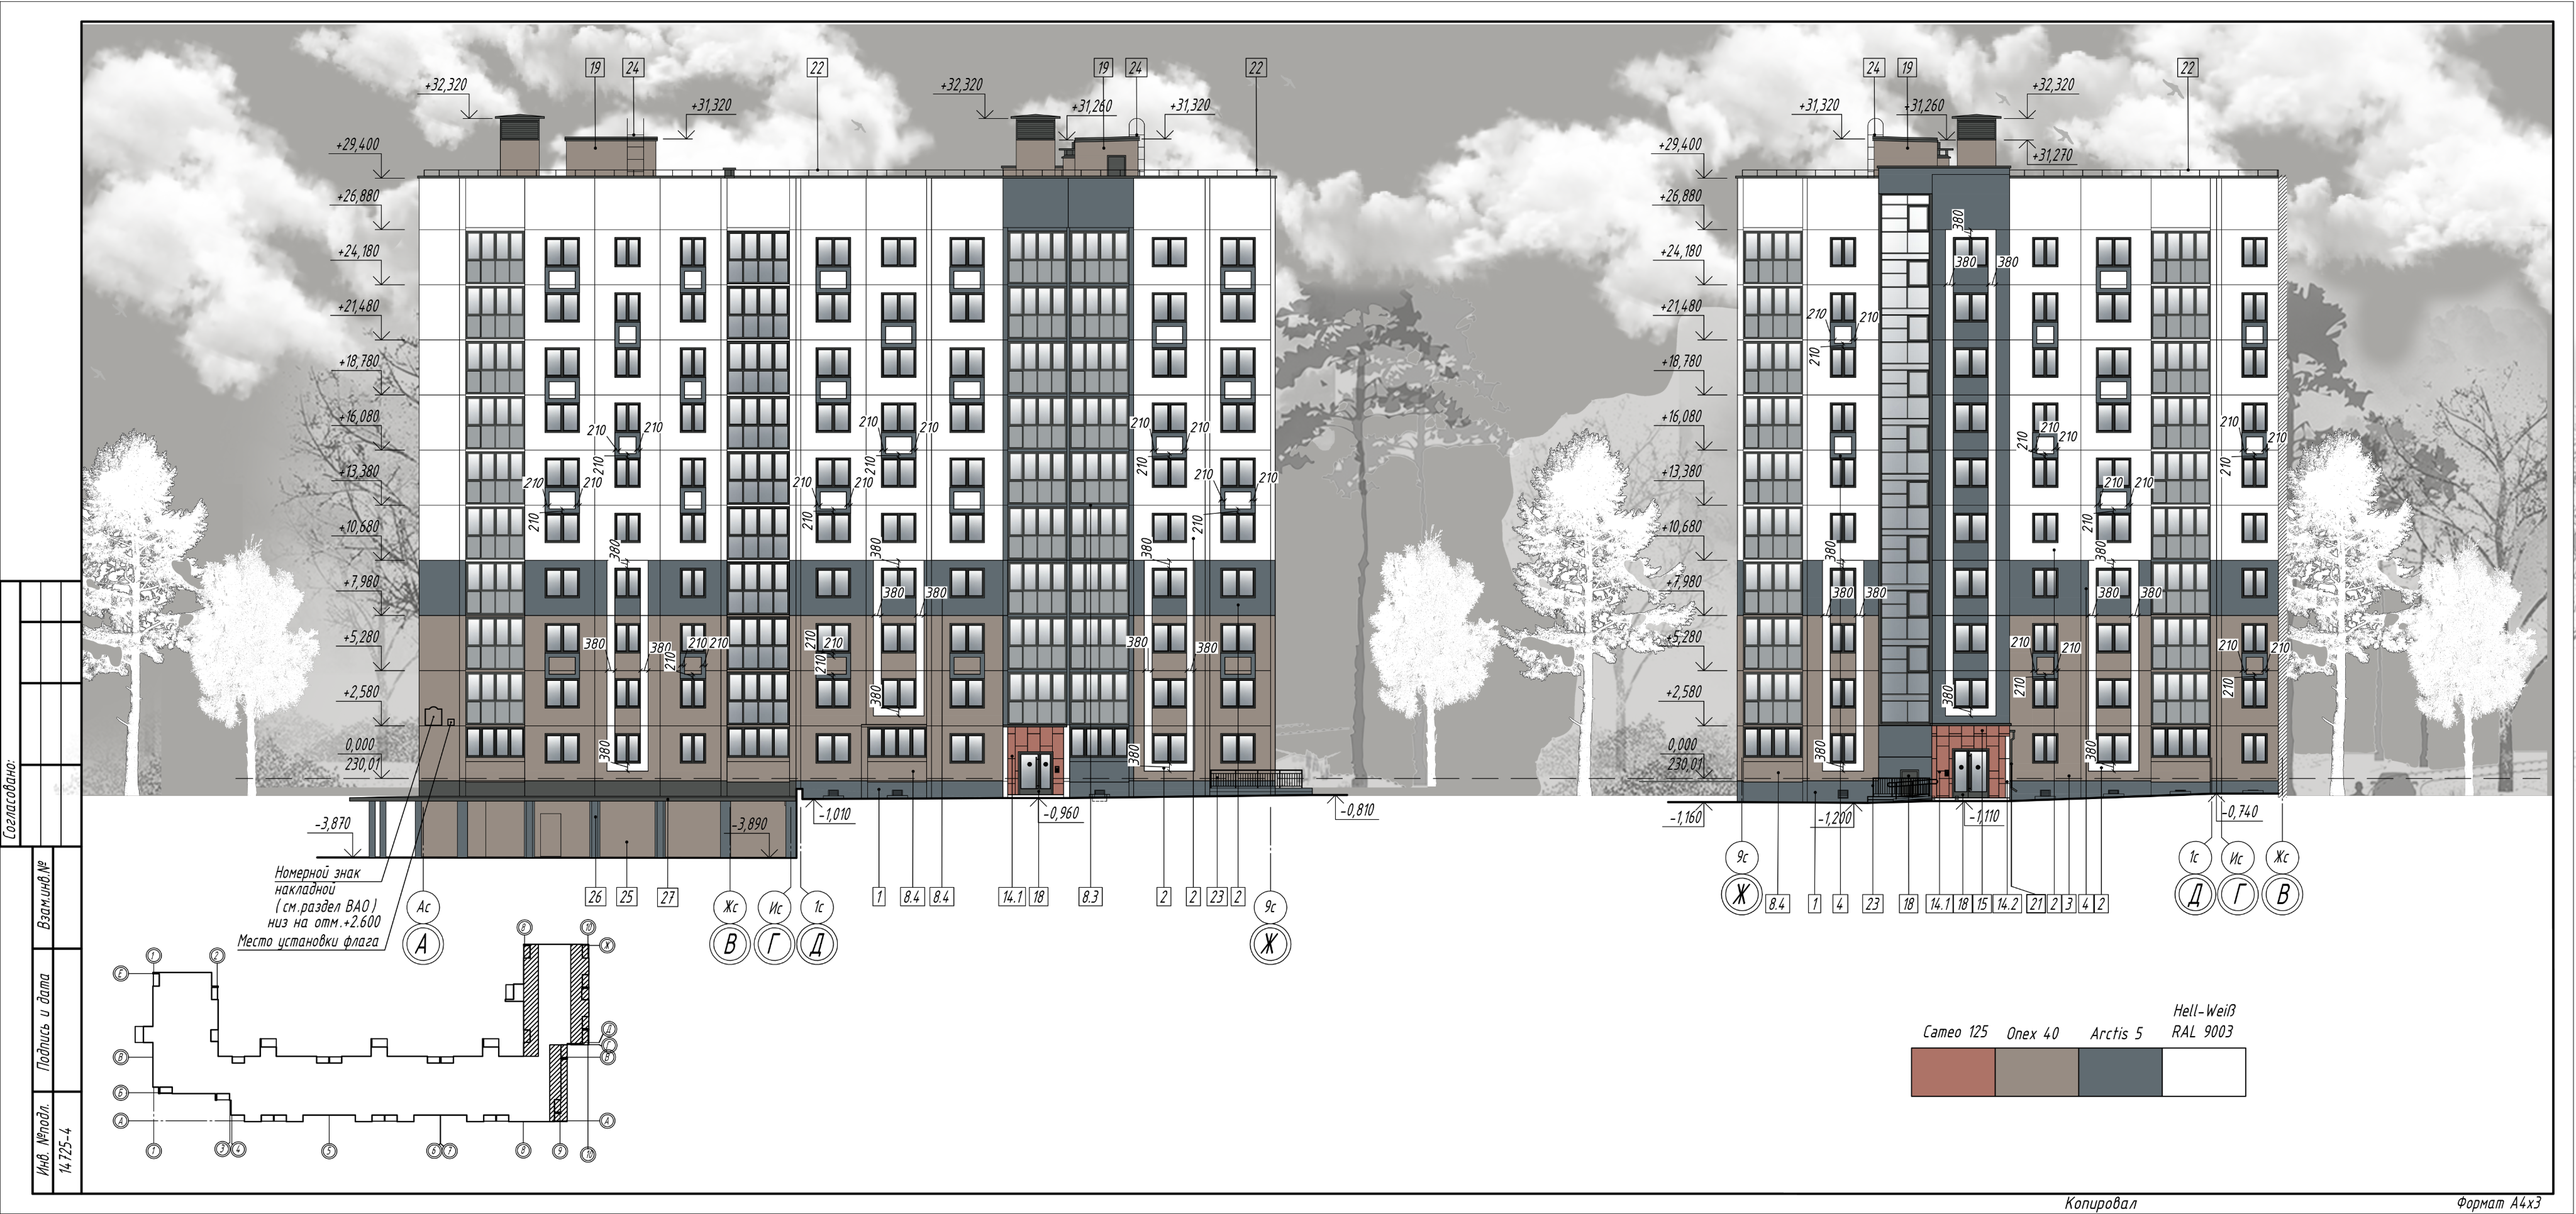
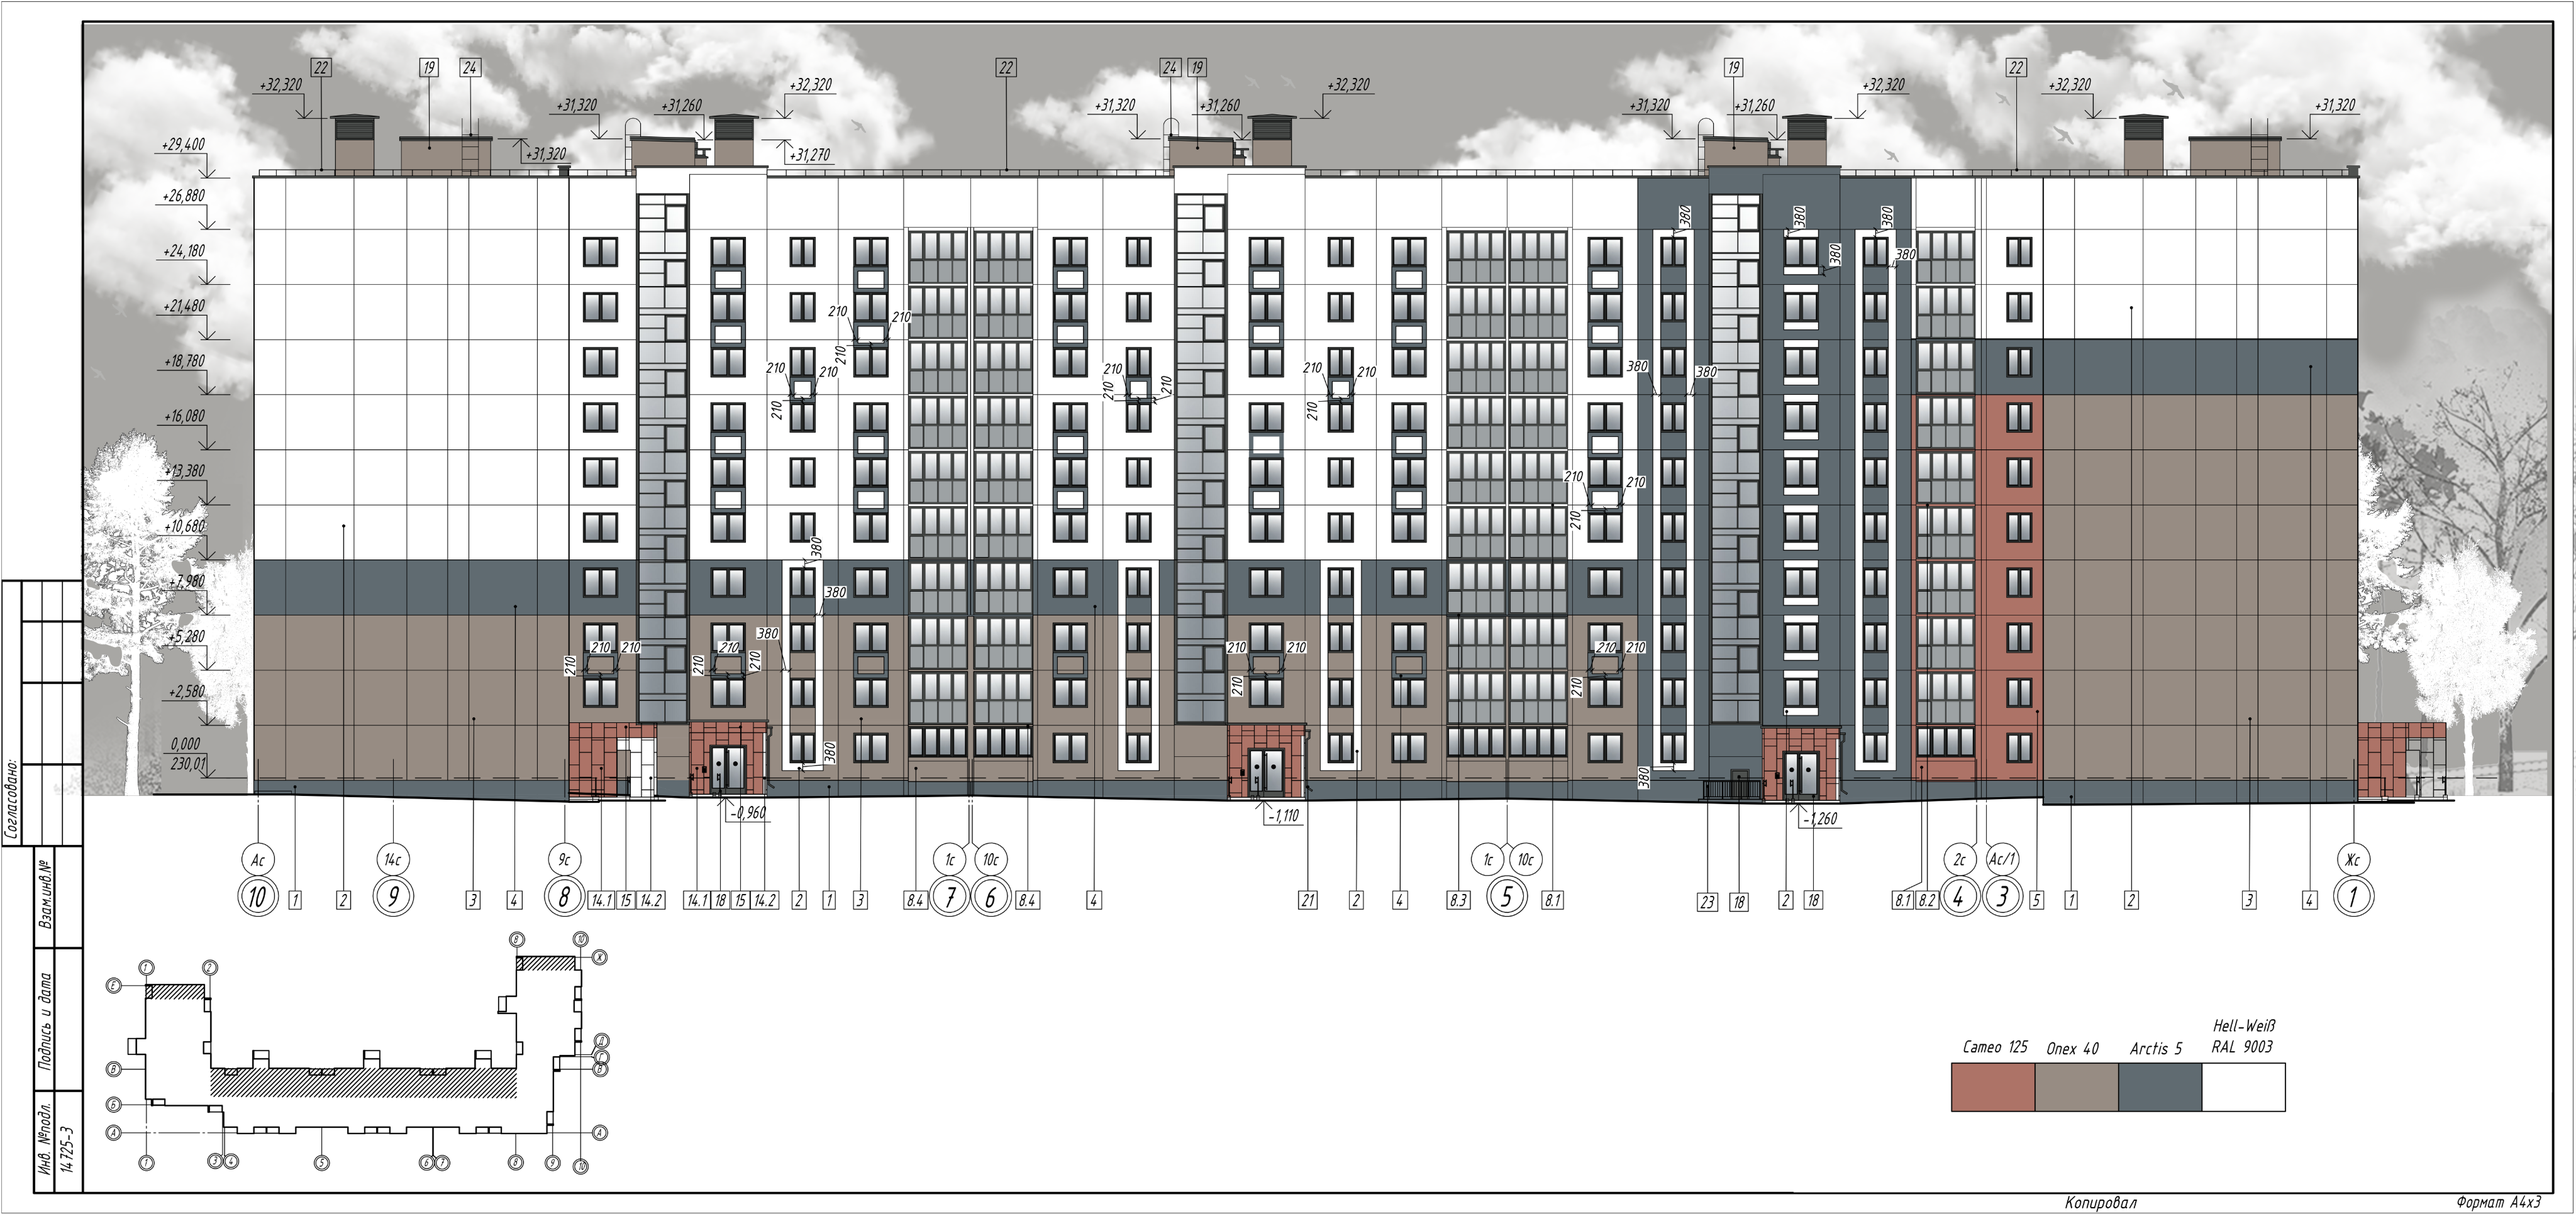
fin

diff --git a/project-04.html b/project-04.html
@@ -40,6 +40,9 @@
   <div class="project__split" data-reveal>
     <div class="project__split-text">
       <h4 class="project__subtitle">Современный санузел</h4>
+      <p>
+        Санузел выполнен в современной премиальной эстетике с элементами эко-минимализма (ближе к Japandi/Contemporary), где акцент сделан на текстурах, симметрии и мягком, «салонном» освещении.
+      </p>
       <p class="drawings__software">
         <strong>Софт:</strong> AutoCAD + Photoshop + Homestyler
       </p>
@@ -164,6 +167,9 @@
 <div class="project__split" data-reveal>
   <div class="project__split-text">
     <h4 class="project__subtitle">Интерьер спальни</h4>
+    <p>
+      Спальня решена как баланс архитектурной графики и природной пластики. Вертикальные рейки на акцентной стене задают ритм и структуру, округлые формы зеркала и арок смягчают геометрию. Светлая нейтральная база дополнена приглушённым зелёным в текстиле — цветовой акцент добавляет глубины, не нарушая воздушности. Плотный драп и многослойное постельное бельё формируют тактильный комфорт. Ламельная тумба, локальный свет и растения введены точечно, без перегрузки. Итог — минималистичная, но тёплая среда с отельной атмосферой и продуманной эргономикой.
+    </p>
     <p class="drawings__software">
       <strong>Софт:</strong> AutoCAD + Photoshop + Homestyler
     </p>

diff --git a/css/styles.css b/css/styles.css
@@ -168,7 +168,8 @@ body.loaded .h-reveal{opacity:1;transform:none}
 /* БЛОК 11: КАРКАС СЕКЦИЙ */
 .section{padding:clamp(84px,12vh,150px) var(--pad-x);position:relative}
 .section--pad-top{padding-top:clamp(60px,8vh,100px)}
-.section-head{display:flex;align-items:flex-end;justify-content:space-between;gap:20px;
+.section-head{ position: relative; margin-top: 200px;
+  display:flex;align-items:flex-end;justify-content:space-between;gap:20px;
   border-bottom:1px solid var(--line-strong);padding-bottom:18px;margin-bottom:clamp(40px,7vh,76px)}
 .section-label{font-family:var(--mono);font-size:11px;letter-spacing:.3em;text-transform:uppercase;color:var(--accent);display:block;margin-bottom:12px}
 .section-title{font-family:var(--disp);font-weight:600;font-size:clamp(1.7rem,4.6vw,3.3rem);line-height:1.05;text-transform:uppercase}
